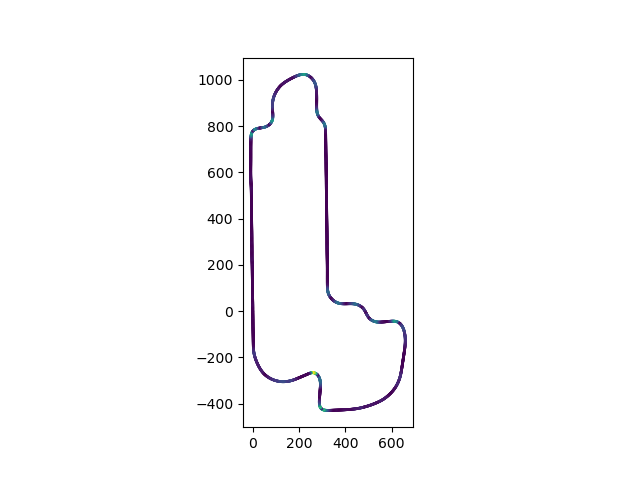
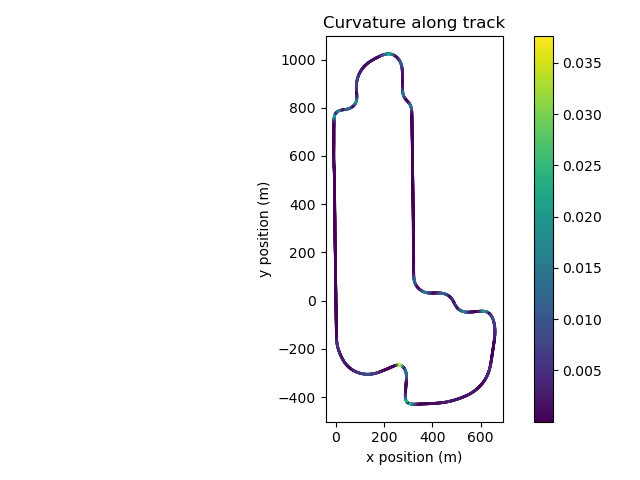
Create plot of curvature

diff --git a/racetrack_curvature.py b/racetrack_curvature.py
@@ -82,5 +82,18 @@ dy, ddy = y_spline.derivative(1), y_spline.derivative(2)
 kappa = np.abs(ddx(t) * dy(t) + dx(t) * ddy(t)) / np.power(dx(t)**2 + dy(t)**2, 1.5)
 
 plt.scatter(x_spline(t), y_spline(t), s=1, c=kappa)
+plt.colorbar()
+plt.title("Curvature along track")
+plt.xlabel("x position (m)")
+plt.ylabel("y position (m)")
 plt.gca().set_aspect('equal')
 plt.savefig("result.png")
+
+plt.gcf().clear()
+plt.title("Curvature along curve")
+plt.ylabel("curvature (1/m)")
+plt.xlabel("curve parameter")
+plt.plot(kappa)
+plt.savefig("curvature.png")
+
+print(f"Max instantaneous turning radius is {1/np.max(kappa)} m")

diff --git a/README.md b/README.md
@@ -8,8 +8,4 @@ Converts lat/long coordinates of the Indy 500 racetrack to the ENU [local tangen
 
 ## Why?
 
-As part of speccing the steering system, Selena wanted to know the minimum radius of a turn on the competition track and asked me if I happened to know. I didn't, but I did remember that the [2023 driver dash I wrote](https://github.com/cornellev/driverdash) had access to a file called `Indy500.json` that had latitude and longitude coordinates of the actual path traveled during competition.
-
-Combined with an ECEF-g to ENU coordinate frame converter I wrote over the summer (currently in a private repo), I was able to convert the geodetic coordinates to a frame with units in meters. I also tried using [pymap3d](https://pypi.org/project/pymap3d/) which has this sort of converter, but it didn't get the units right.
-
-I then attempted to compute the curvature. This didn't work well though due to the fact that the approximating splines aren't normalized by arc length. I tried and failed to do this a couple different ways, so the computed curvature wasn't actually useful. I ended up zooming into the plot and manually tracing out the [osculating circle](https://en.wikipedia.org/wiki/Osculating_circle) for the regions I expected to have the most curvature.
+As part of speccing the steering system, Selena wanted to know the minimum radius of a turn on the competition track and asked me if I happened to know. I didn't, but I did remember that the [2023 driver dash I wrote](https://github.com/cornellev/driverdash) had access to a file called `Indy500.json` that had latitude and longitude coordinates of the actual path traveled during competitio
